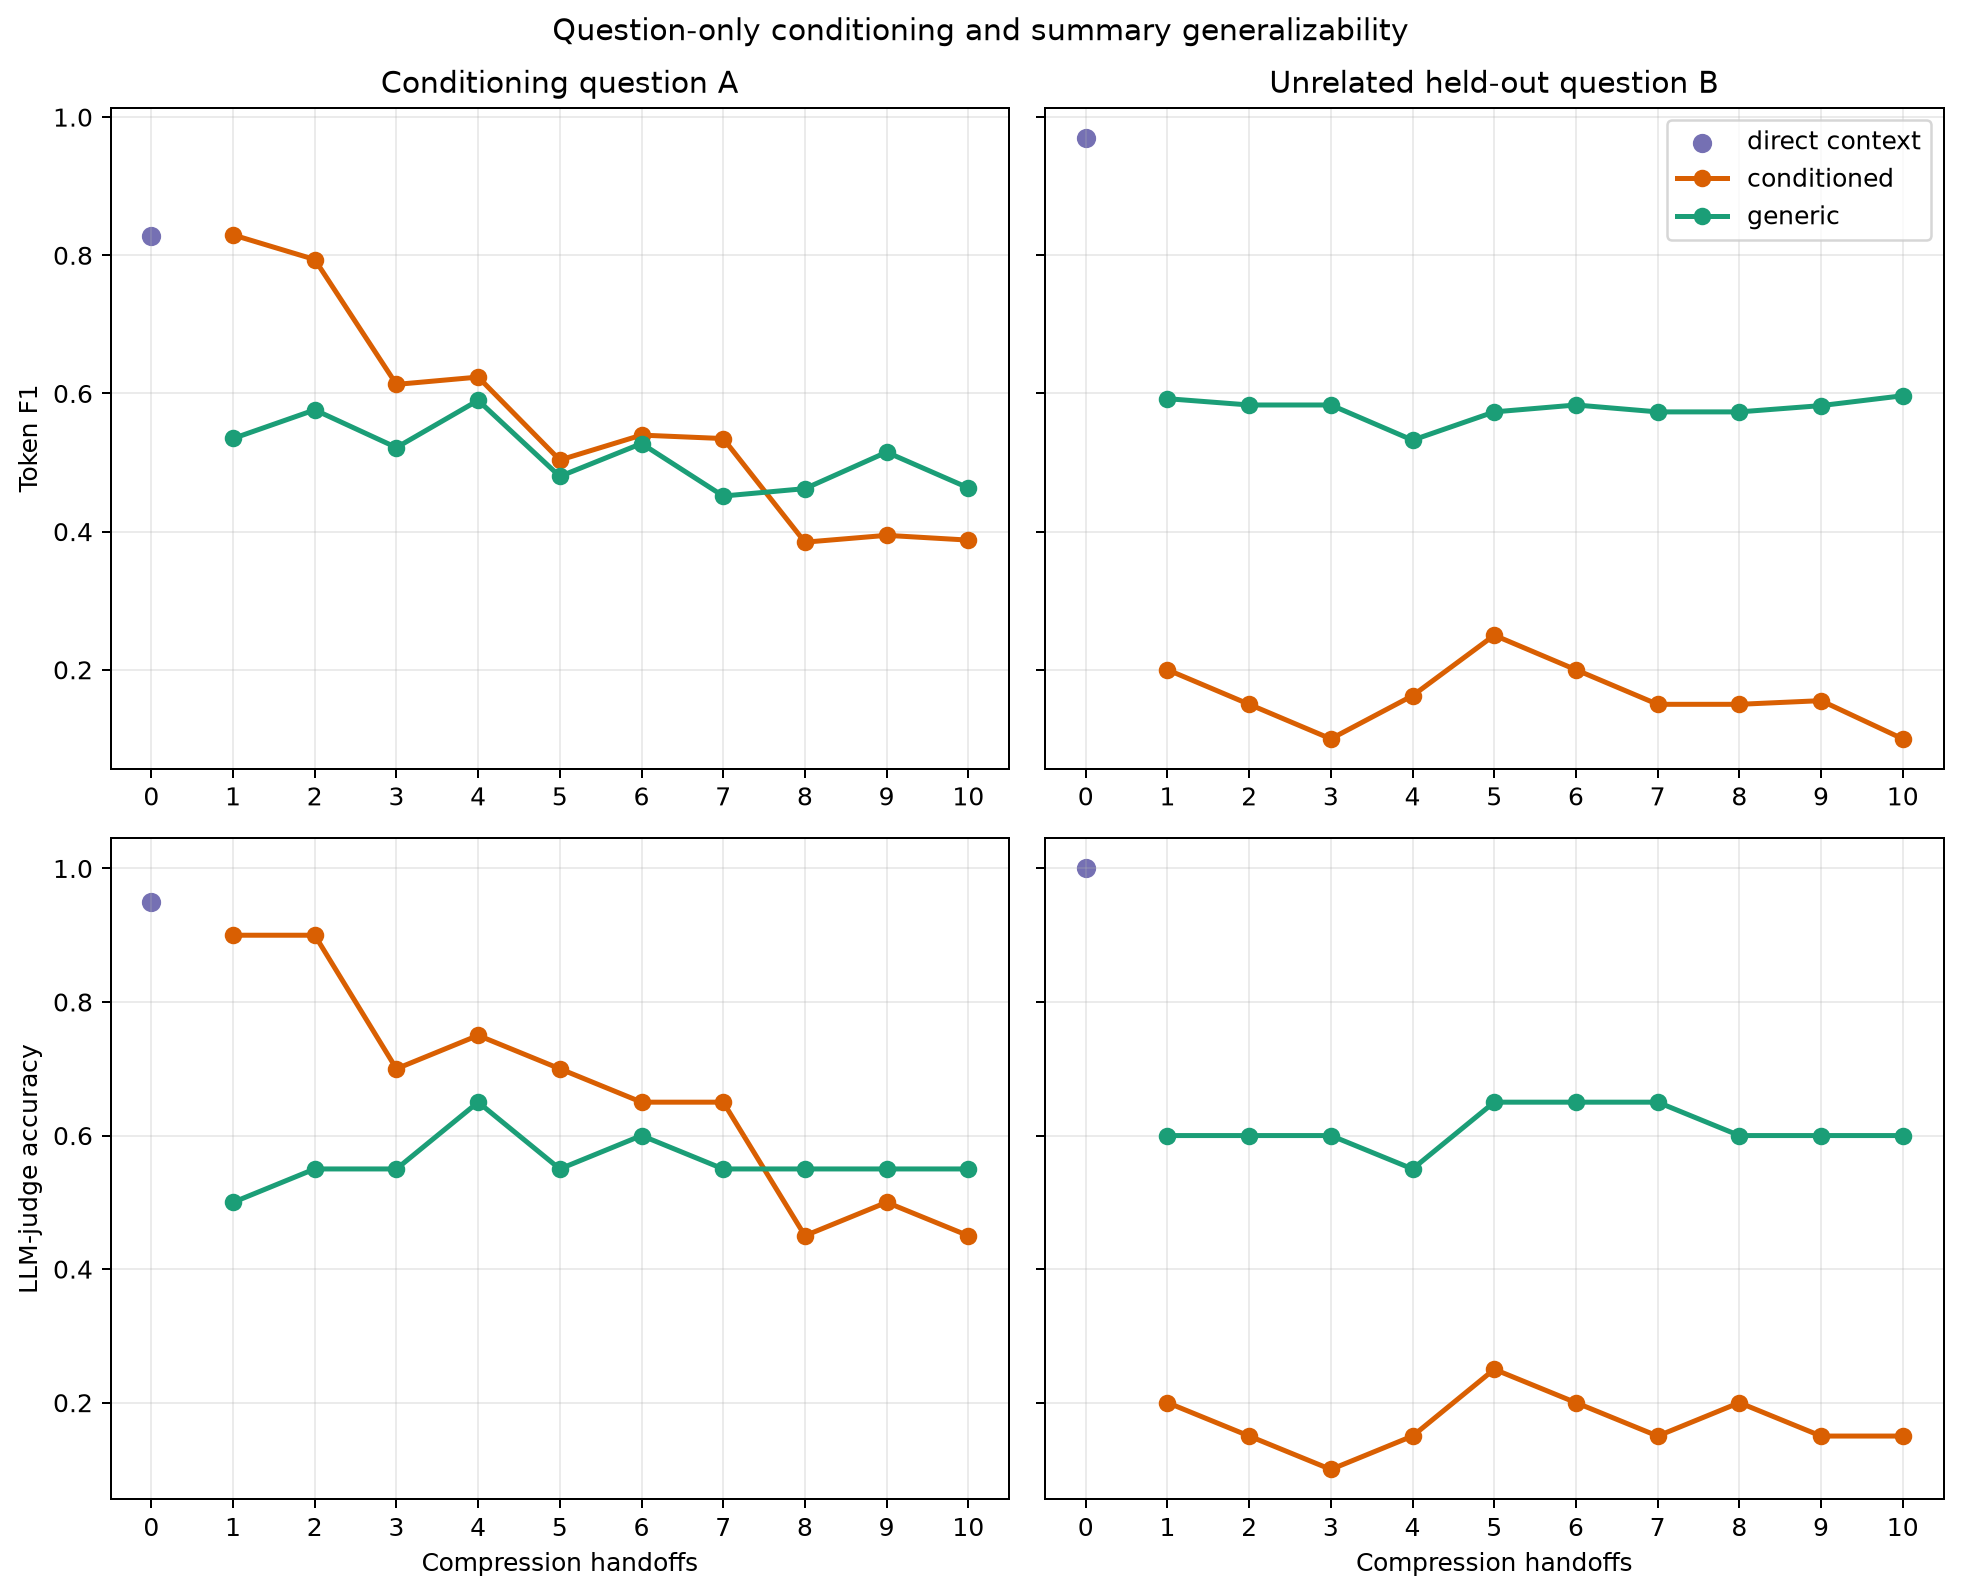
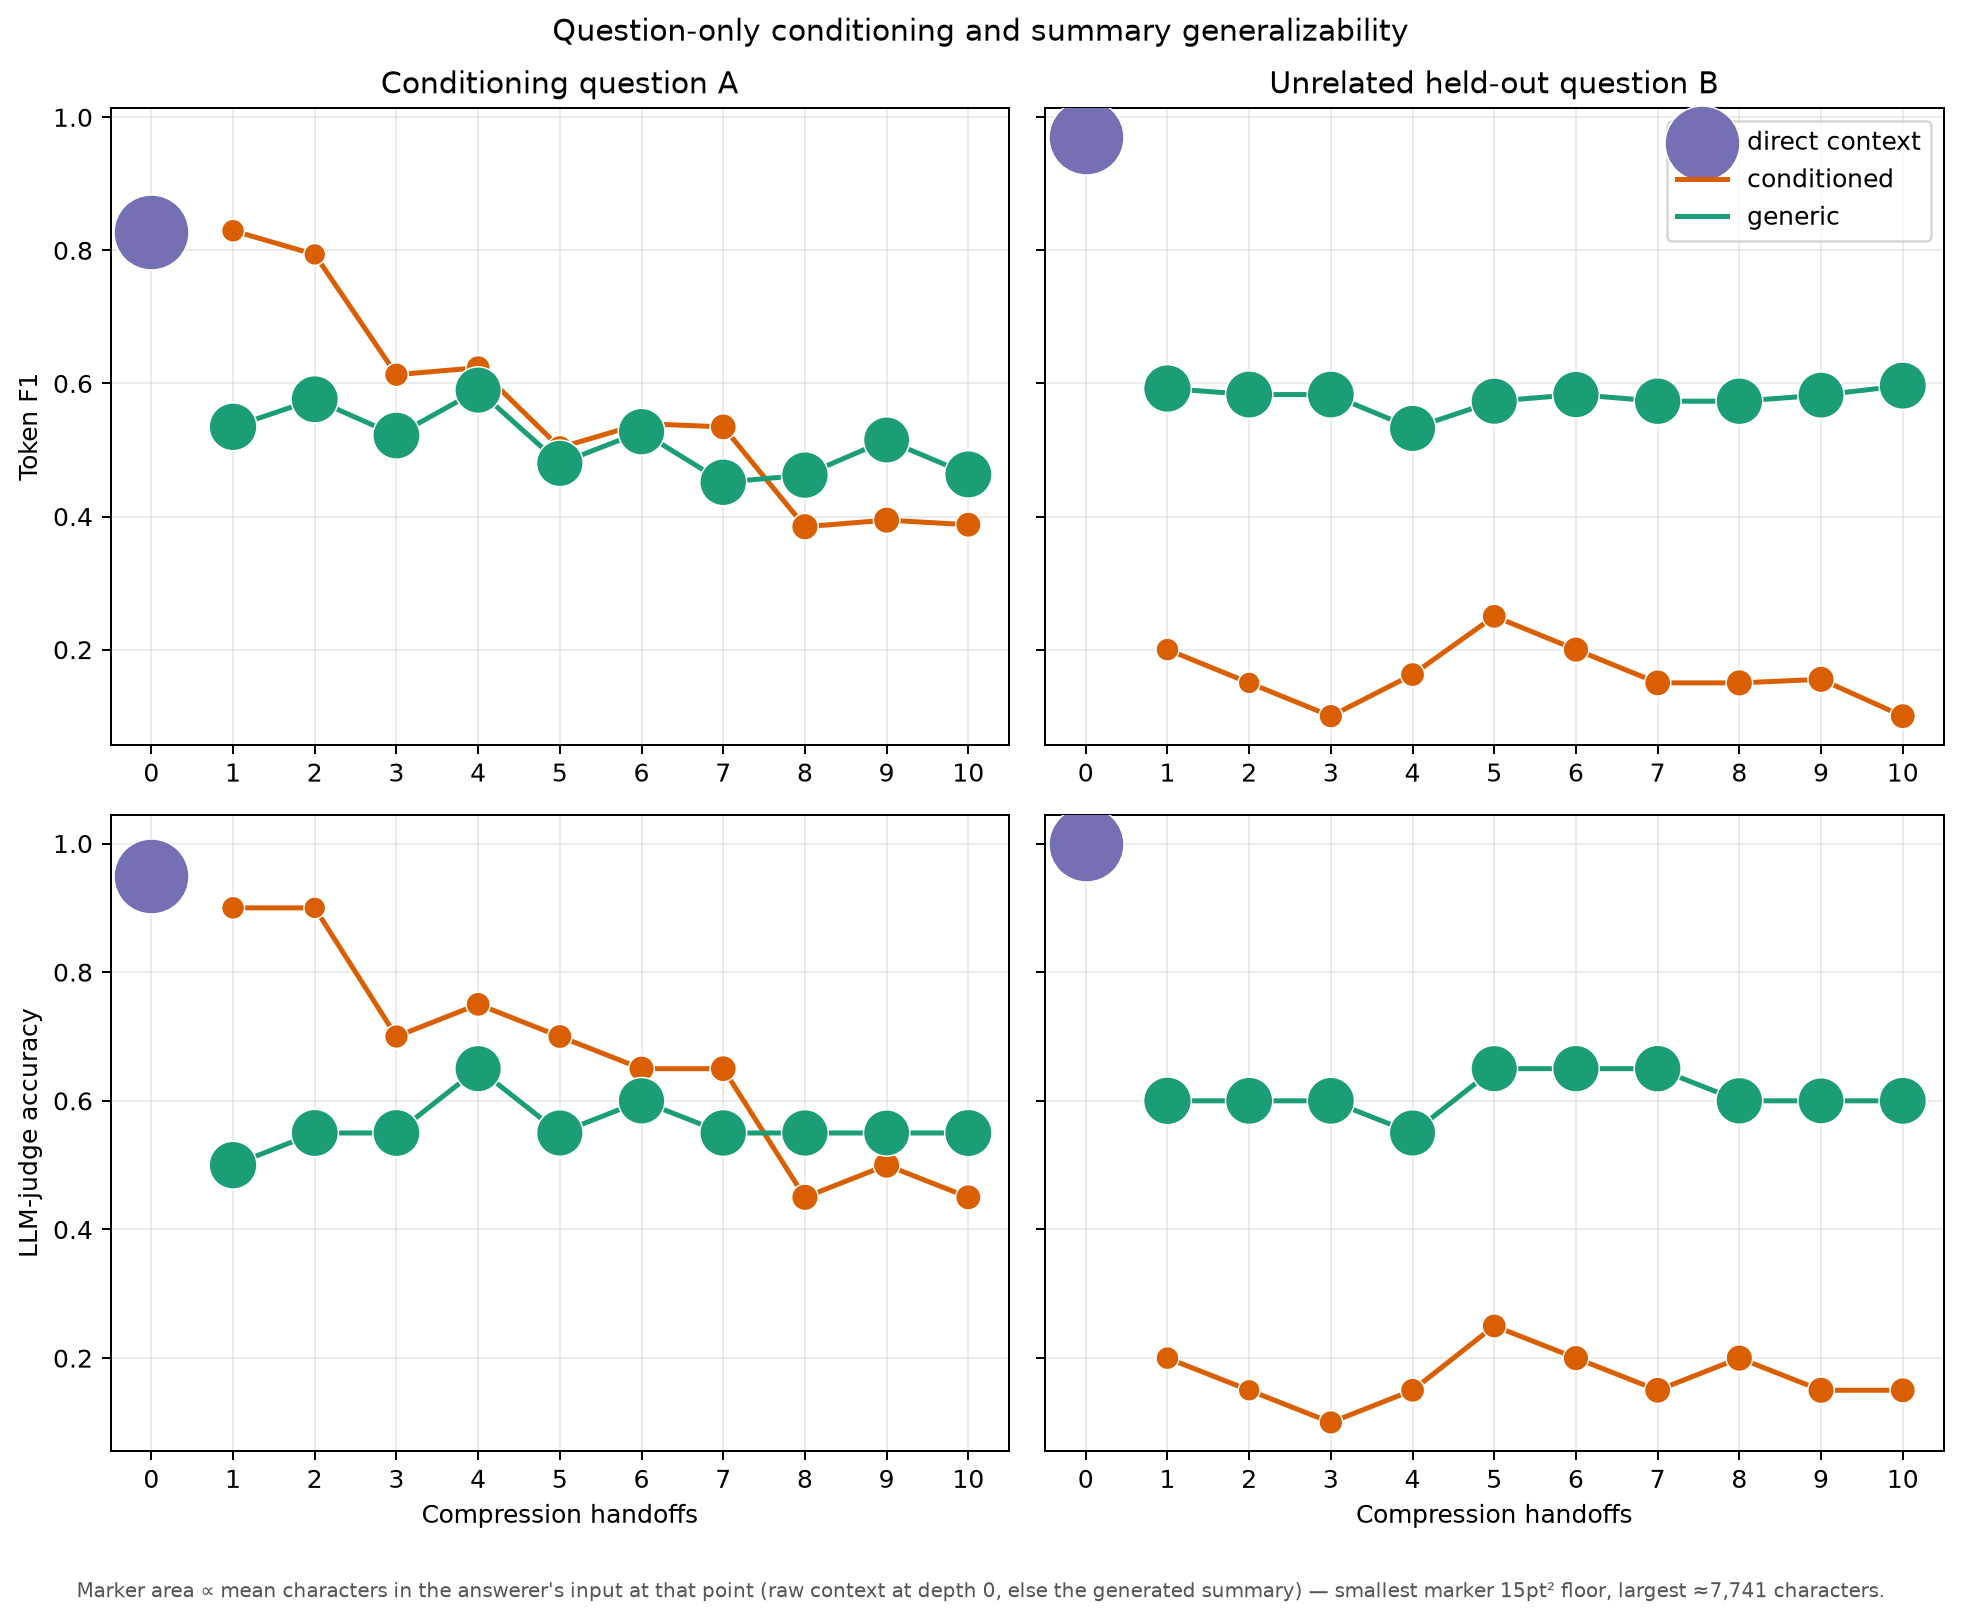
Size-encode summary length on both Experiment 5 plots
analyse() in run_summary_generalization.py now takes pairs/handoffs and
computes handoff_characters_mean per (mode, depth) -- the raw context length
at depth 0, else the actual generated summary's length -- matching the
marker-area convention already used for the repeated-degradation plot
(run_chain.py, plot_conditioning_comparison.py). Regenerated both Experiment
5 plots from cache at $0 (every handoff/answer/judge call was already done):
the original separate-passage design and the SQuAD same-passage rebuild.

Dot size now makes the compression asymmetry visible directly on the
accuracy curve rather than only in a token-count table: conditioned
summaries are consistently the smaller dots in both plots. Added a caption
sentence with the concrete character counts under each plot in the report.

diff --git a/src/run_summary_generalization.py b/src/run_summary_generalization.py
@@ -347,14 +347,29 @@ def answer(client, pair: dict, query_type: str, material: str, cfg: dict, tag: s
             "em": em, "f1": f1, "cached": result.cached}
 
 
-def analyse(rows: list[dict], cfg: dict, root: Path) -> None:
+def analyse(rows: list[dict], cfg: dict, root: Path, pairs: list[dict], handoffs: dict) -> None:
     boot, ci = cfg["analysis"]["bootstrap_resamples"], cfg["analysis"]["ci_level"]
+    pair_lookup = {p["pair_id"]: p for p in pairs}
+
+    def mean_chars(mode: str, depth: int, pair_ids: list[str]) -> float:
+        # "direct" (depth 0) has no generated summary -- the answerer sees the
+        # raw context instead, so size that marker by context length. Every
+        # other point is sized by the actual generated handoff/summary text,
+        # so shrinkage across repeated compression is visible on the accuracy
+        # curve itself, not just in a separate token-count table.
+        if mode == "direct":
+            lengths = [len(render_context(pair_lookup[pid])) for pid in pair_ids]
+        else:
+            lengths = [len(handoffs[(pid, mode, depth)]["text"]) for pid in pair_ids]
+        return sum(lengths) / len(lengths)
+
     metrics, vectors = [], {}
     keys = sorted(set((r["mode"], r["query_type"], int(r["depth"])) for r in rows))
     for mode, query_type, depth in keys:
         subset = sorted([r for r in rows if (r["mode"], r["query_type"], int(r["depth"])) == (mode, query_type, depth)], key=lambda x: x["pair_id"])
         vectors[(mode, query_type, depth)] = {m: {r["pair_id"]: r[m] for r in subset} for m in ("em", "f1", "judge_correct")}
-        record = {"mode": mode, "query_type": query_type, "depth": depth, "n": len(subset)}
+        record = {"mode": mode, "query_type": query_type, "depth": depth, "n": len(subset),
+                  "handoff_characters_mean": round(mean_chars(mode, depth, [r["pair_id"] for r in subset]), 1)}
         for metric in ("em", "f1", "judge_correct"):
             mean, lo, hi = bootstrap_ci(np.array([r[metric] for r in subset]), boot, ci, seed=71)
             record.update({metric: round(mean, 4), f"{metric}_lo": round(lo, 4), f"{metric}_hi": round(hi, 4)})
@@ -385,14 +400,31 @@ def analyse(rows: list[dict], cfg: dict, root: Path) -> None:
                              sharey="row", squeeze=False)
     colors = {"direct": "#7570b3", "conditioned": "#d95f02", "generic": "#1b9e77"}
     titles = ("Conditioning question A", "Unrelated held-out question B")
+    # Marker area proportional to the mean size (characters) of whatever text
+    # actually fed the answerer at that point -- the raw context at depth 0,
+    # the generated summary at depth >=1 -- one scale for the whole figure so
+    # area is comparable across both panels, both arms, and both metric rows.
+    all_chars = [r["handoff_characters_mean"] for r in metrics if "handoff_characters_mean" in r]
+    max_chars = max(all_chars) if all_chars else 1.0
+    max_area, min_area = 900.0, 15.0
+    size_scale = max_area / max_chars
+
+    def marker_area(record: dict) -> float:
+        chars = record.get("handoff_characters_mean")
+        return max_area if chars is None else max(min_area, size_scale * chars)
+
     for row_idx, (metric, label) in enumerate(plot_metrics):
         for col_idx, (query_type, title) in enumerate(zip(("target", "heldout"), titles)):
             axis = axes[row_idx][col_idx]
             direct = next(r for r in metrics if r["mode"] == "direct" and r["query_type"] == query_type)
-            axis.scatter([0], [direct[metric]], color=colors["direct"], label="direct context", s=45)
+            axis.scatter([0], [direct[metric]], s=marker_area(direct), color=colors["direct"],
+                        edgecolors="white", linewidths=0.6, label="direct context", zorder=3)
             for mode in cfg["modes"]:
                 subset = sorted([r for r in metrics if r["mode"] == mode and r["query_type"] == query_type], key=lambda r: r["depth"])
-                axis.plot([r["depth"] for r in subset], [r[metric] for r in subset], marker="o", linewidth=2, color=colors[mode], label=mode)
+                x = [r["depth"] for r in subset]
+                axis.plot(x, [r[metric] for r in subset], marker="", linewidth=2, color=colors[mode], label=mode, zorder=2)
+                axis.scatter(x, [r[metric] for r in subset], s=[marker_area(r) for r in subset],
+                            color=colors[mode], edgecolors="white", linewidths=0.6, zorder=3)
             if row_idx == 0:
                 axis.set_title(title)
             if row_idx == len(plot_metrics) - 1:
@@ -402,7 +434,12 @@ def analyse(rows: list[dict], cfg: dict, root: Path) -> None:
         axes[row_idx][0].set_ylabel(label)
     axes[0][1].legend()
     fig.suptitle("Question-only conditioning and summary generalizability")
-    fig.tight_layout()
+    fig.tight_layout(rect=(0, 0.03, 1, 1))
+    fig.text(0.5, 0.005,
+              f"Marker area ∝ mean characters in the answerer's input at that point "
+              f"(raw context at depth 0, else the generated summary) — smallest marker "
+              f"{min_area:.0f}pt² floor, largest ≈{max_chars:,.0f} characters.",
+              ha="center", fontsize=8, color="#555555")
     fig.savefig(root / "summary_generalization.png", dpi=180, bbox_inches="tight")
     plt.close(fig)
 
@@ -475,7 +512,7 @@ def main() -> int:
         write_jsonl(answer_path, rows)
         judge_client = add_judge(rows, cfg, tag="summary_generalization_judge")
         write_jsonl(answer_path, rows)
-        analyse(rows, cfg, result_root)
+        analyse(rows, cfg, result_root, pairs, handoffs)
         write_example(pairs[0], handoffs, result_root)
         if judge_client is not None:
             print("[generalization:judge cost] " + json.dumps(judge_client.ledger.summary()))

diff --git a/results/HANDOFF_EXPERIMENTS_REPORT.md b/results/HANDOFF_EXPERIMENTS_REPORT.md
@@ -280,6 +280,8 @@ The final answerer receives whichever question is being evaluated. Summaries hav
 
 ![Question-only conditioning through ten handoffs](summary_generalization_v2_depth10/n20/summary_generalization.png)
 
+Dot area is proportional to the mean number of characters the answerer actually received at that point (the raw 10-passage context at depth 0, the generated summary at every depth after) — the same size encoding used for the repeated-degradation plot in §2. It makes the mechanism visible directly on the accuracy curve: conditioned summaries settle to 726–883 characters after the first handoff, while generic summaries, with no question to focus them, stay roughly 3–4x larger throughout (2,983–3,140 characters) despite sharing the identical 700-token cap. Conditioning is not just differently-focused here, it is writing a substantially shorter note.
+
 The plot evaluates every depth from 0 to 10. Selected Token-F1 landmarks are:
 
 | Evaluation | Direct | Conditioned d1 | Generic d1 | Conditioned d2 | Generic d2 | Conditioned d5 | Generic d5 | Conditioned d10 | Generic d10 |
@@ -354,6 +356,8 @@ Before reading any effect, the three diagnostics that invalidated the previous r
 #### Results
 
 ![Question-only conditioning on SQuAD same-passage pairs](squad_same_passage/n20/summary_generalization.png)
+
+Dot area again encodes mean characters received at that point. Against a 7,954-character direct context, conditioned summaries shrink to 612 characters at depth 1 (927 by depth 10), while generic summaries — compressing the same ten passages with no question to focus them — stay far larger throughout, 3,784–4,491 characters. This is the visual counterpart to the stage-1 fact-survival numbers above: generic keeps more text overall but still loses the specific fact either question needs.
 
 Paired conditioned-minus-generic contrasts:
 
